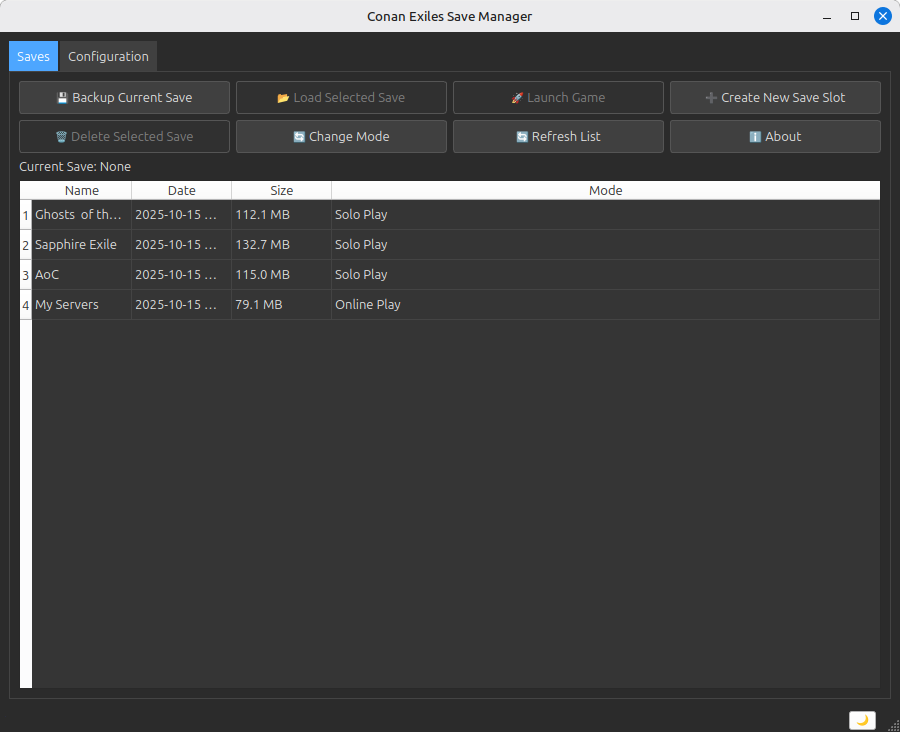
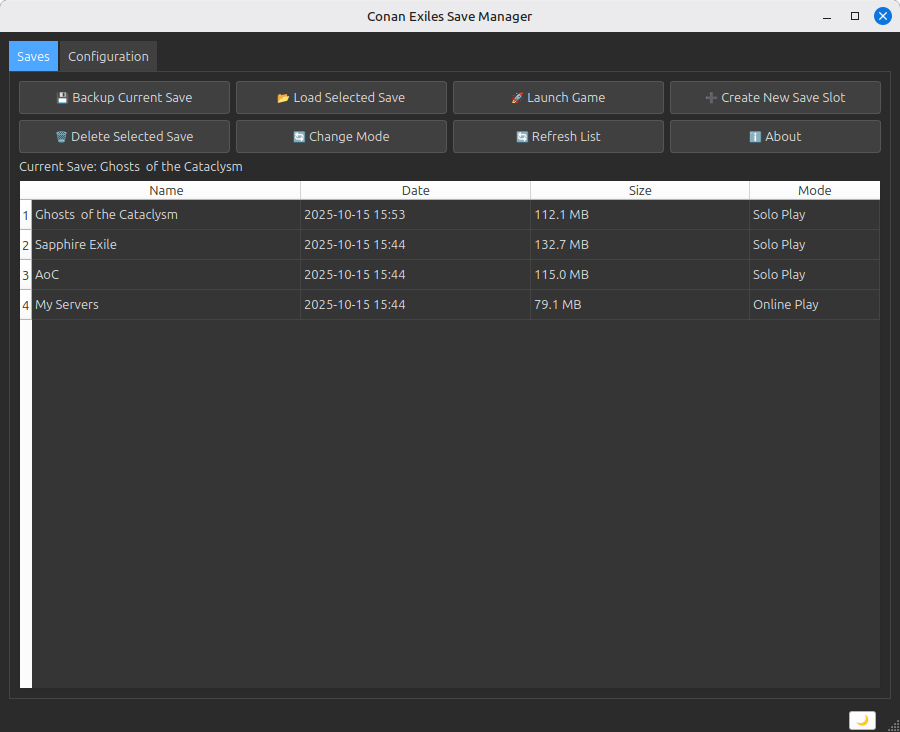
cleaned up the save displays.

diff --git a/main.py b/main.py
@@ -18,7 +18,7 @@ from PySide6.QtWidgets import (
     QApplication, QMainWindow, QWidget, QVBoxLayout, QHBoxLayout, QTabWidget,
     QPushButton, QLabel, QTableWidget, QTableWidgetItem, QTreeWidget, QTreeWidgetItem,
     QProgressBar, QStatusBar, QProgressDialog, QMessageBox, QInputDialog, QFileDialog,
-    QToolButton
+    QToolButton, QHeaderView
 )
 from PySide6.QtCore import Qt, QThread, Signal, Slot
 from PySide6.QtGui import QFont, QIcon
@@ -360,7 +360,9 @@ class MainWindow(QMainWindow):
         self.saves_table = QTableWidget()
         self.saves_table.setColumnCount(4)
         self.saves_table.setHorizontalHeaderLabels(["Name", "Date", "Size", "Mode"])
-        self.saves_table.horizontalHeader().setStretchLastSection(True)
+        # Make all columns stretch equally
+        for i in range(4):
+            self.saves_table.horizontalHeader().setSectionResizeMode(i, QHeaderView.Stretch)
         self.saves_table.cellClicked.connect(self.on_save_selected)
         layout.addWidget(self.saves_table)
 
